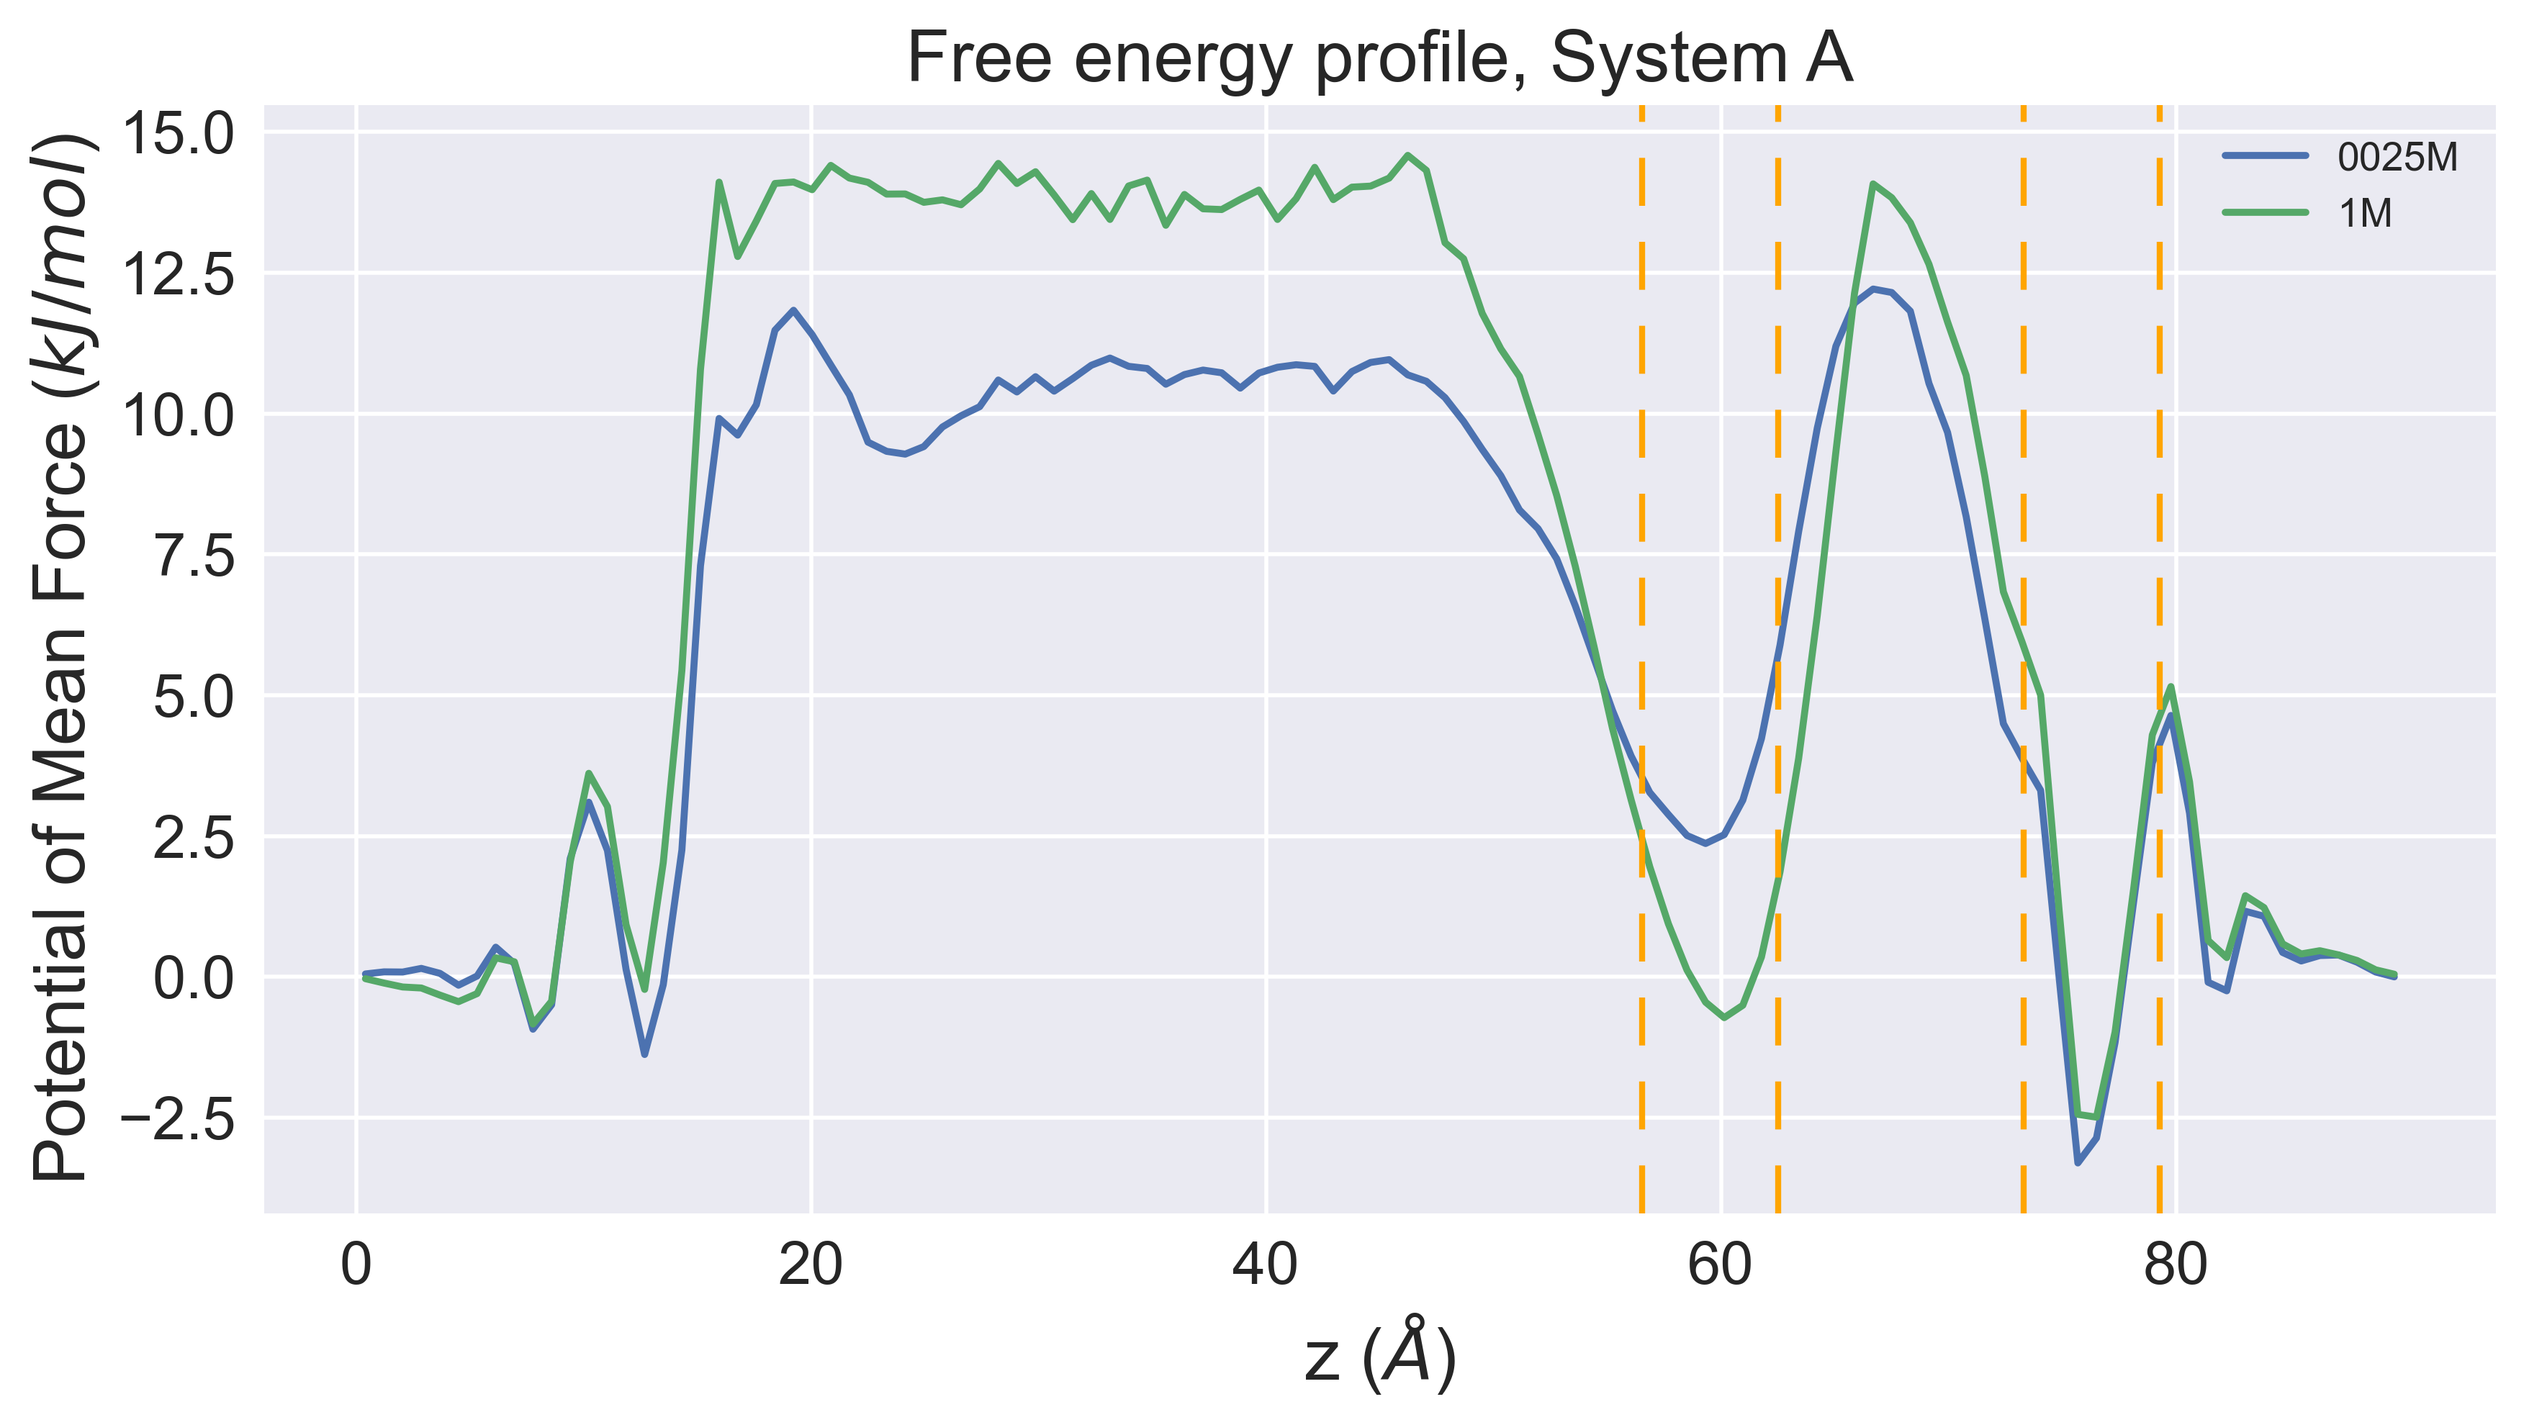
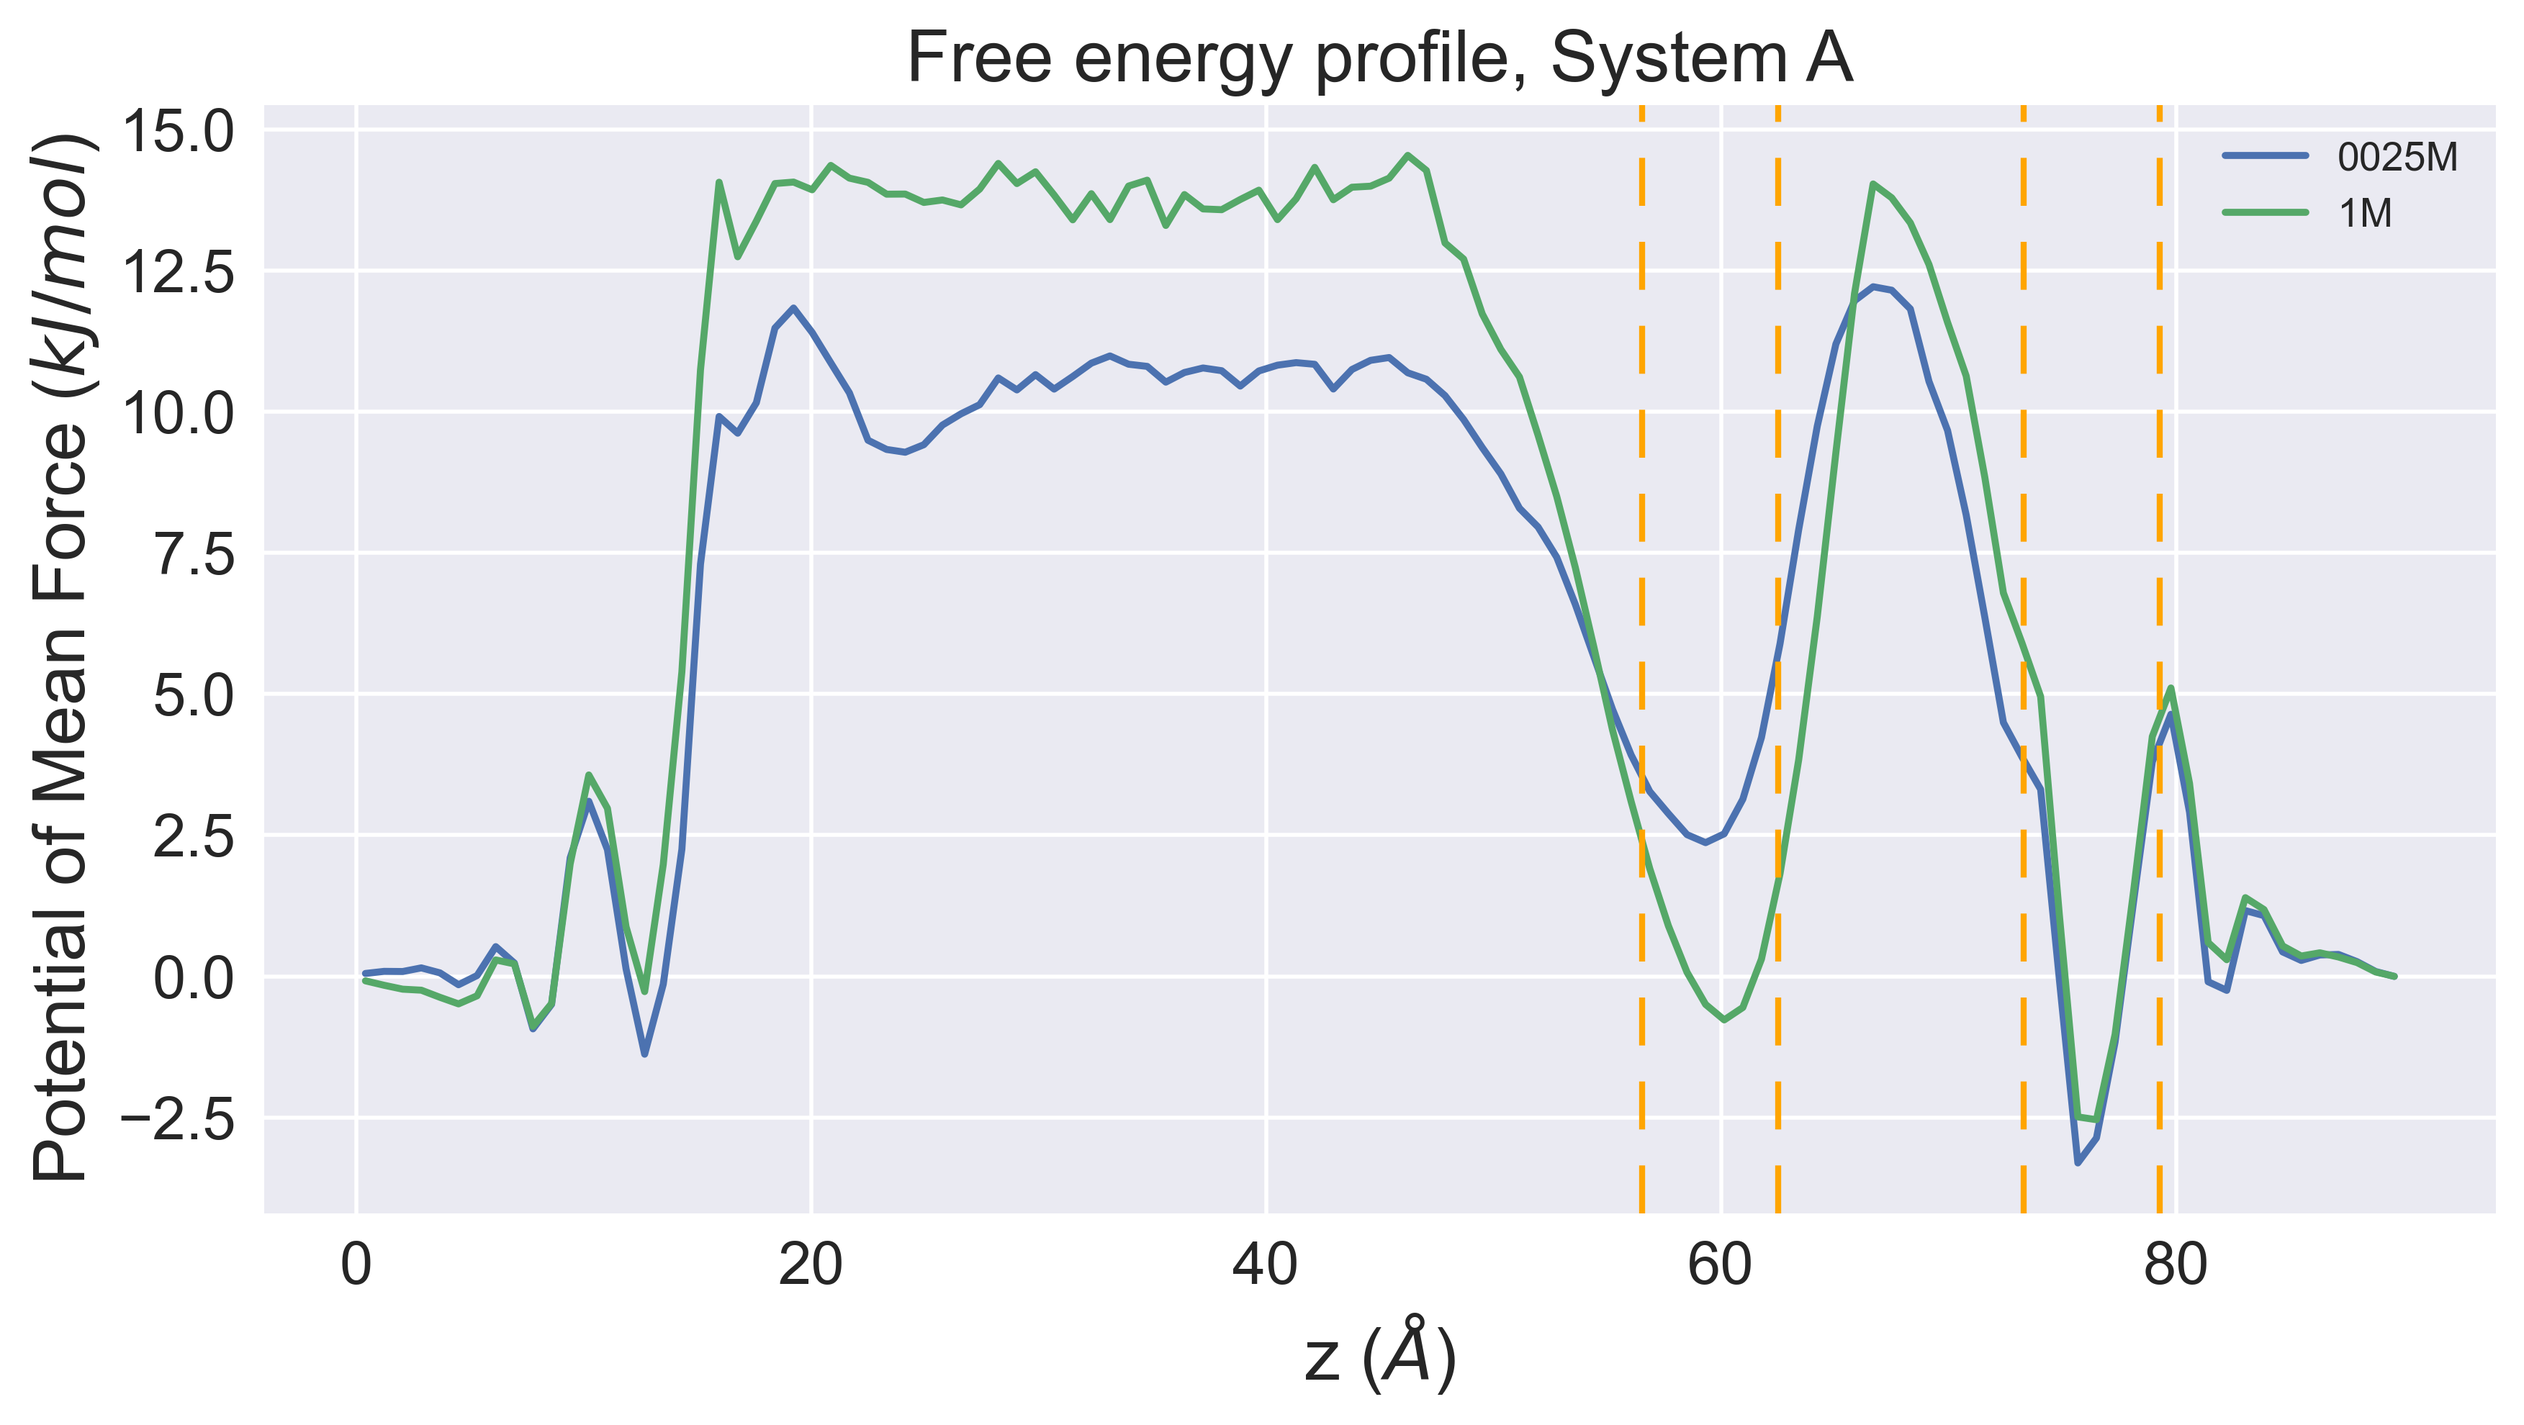
Added systems C and D and minor changes

diff --git a/MFPT.py b/MFPT.py
@@ -1,4 +1,4 @@
-import os, re, sys, pickle
+import os, re, sys
 from typing import NoReturn
 import numpy as np
 from scipy.optimize import curve_fit
@@ -33,37 +33,36 @@ NaR Mean First Passage Time Data analysis. Takes input parameters and files from
 Optional: production of graphs for Free Energy, Trajectory, Histogram of z counts and MFPT distribution.'''
 
 
-def PICKLE_data_analysis(PICKLE : str) -> NoReturn:
+def NPY_data_analysis(NPY : str) -> NoReturn:
 
-    # Getting file infos from filename: it must be of the format A_0M.pickle (one or more digits before M, any letter at the beginning)
+    # Getting file infos from filename: it must be of the format A_0M.npy (one or more digits before M, any letter at the beginning)
     # beginning numbers identify the sistem, number before 'M' identify molarity.
     pattern = re.compile( r'''
     (^             # Beginning of group: system_name.   ^ ->beginning of string
     [a-zA-Z])_            # Letter identifying the system
     (\d+)                     # At least one digit --> Molarity
-    M\.pickle$                  # rest of filename + end of line
+    M\.npy$                  # rest of filename + end of line
     ''', re.VERBOSE )       # VERBOSE -> whitespace ignored and enables comments
 
-    file_infos = pattern.fullmatch(PICKLE) 
+    file_infos = pattern.fullmatch(NPY) 
     if file_infos is None:  # Raises an error if filename does not match the pattern
-        raise FileNotValidError(PICKLE, msg = f"File name '{PICKLE}' does not match the required format 00-00-00-00_0M_NAR.pickle")
+        raise FileNotValidError(NPY, msg = f"File name '{NPY}' does not match the required format")
     system_name, molarity = file_infos.group(1), file_infos.group(2)
 
 
-    # load trajectory array from .pickle file
-    with open(os.path.join(params.pickle_directory, PICKLE), 'rb') as fp:
-        z_coordinate_NAR = pickle.load(fp)     # z_coordinate_NAR is np.ndarray
+    # Load trajectory array from .npy file
+    z_coordinate_NAR = np.load(os.path.join(params.npy_directory, NPY))     # z_coordinate_NAR is np.ndarray
 
 
     # Find z_start, z_min from z counts histogram    
     hist, bins = np.histogram(z_coordinate_NAR, bins = params.n_bins)
     dz = bins[1]-bins[0] # Angstrom
-    z_start = ( np.argmax( hist[ int(70/dz) : ] )  + int(70/dz) )* dz     # finds where the max of counts is for z>70
+    z_start = ( np.argmax( hist[ int(70/dz) :  int(80/dz)] )  + int(70/dz) )* dz  # finds where the max of counts is for 70<z<80
     z_end = ( np.argmax( hist[ int(40/dz) : int(70/dz) ] ) + int(40/dz) )* dz  # finds where the max of counts is for 40<z<70
     
     #Plot trajectory, z counts histogram and free energy
     if params.plot_graphs:
-        plotting_params['filename'] = PICKLE.removesuffix('.pickle')        
+        plotting_params['filename'] = NPY.removesuffix('.npy')        
         plotting_params['z_start'] = z_start
         plotting_params['z_end'] = z_end
         custom_plt.plot_trajectory(z_coordinate_NAR, **plotting_params)
@@ -72,19 +71,17 @@ def PICKLE_data_analysis(PICKLE : str) -> NoReturn:
 
         # Plot of comparison of free energy for the same system at different molarity
         if system_name not in sys_analysed: # Indicates if this couple of files has been already plotted in a previous cycle
-            for f in PICKLEs:   # Searches for the other file referring to the same system
+            for f in NPYs:   # Searches for the other file referring to the same system
                 if pattern.fullmatch(f) is None:
-                    # If the name of a file is wrong a warning will be printed later when it is analysed by the function PICKLE_data_analysis
+                    # If the name of a file is wrong a warning will be printed later when it is analysed by the function NPY_data_analysis
                     continue
                 if pattern.fullmatch(f).group(1) == system_name and pattern.fullmatch(f).group(2) != molarity: # Same system but different molarity
-                    with open(os.path.join(params.pickle_directory, f), 'rb') as fp:
-                        # z_coordinate_NAR_2 = pickle.load(fp)
-                        custom_plt.free_energy_comparison(z_coordinate_NAR, pickle.load(fp), \
-                            molarity1 = molarity,molarity2 = pattern.fullmatch(f).group(2), **plotting_params)
+                    custom_plt.free_energy_comparison(z_coordinate_NAR, np.load(os.path.join(params.npy_directory, f)), \
+                        molarity1 = molarity, molarity2 = pattern.fullmatch(f).group(2), **plotting_params)
                     sys_analysed.append(system_name)
                     break
             else:   # If the other file has not been found
-                print("Warning: The counterpart of '{PICKLE}' with different molarity has not been found in '{params.pickle_directory}'")
+                print("Warning: The counterpart of '{NPY}' with different molarity has not been found in '{params.npy_directory}'")
 
     #Compute total residence time and transition times from z_start to z_end
     transition_times  = list()
@@ -107,12 +104,12 @@ def PICKLE_data_analysis(PICKLE : str) -> NoReturn:
     if n_transitions == 0:      #  No transition found
         out_file.write('{:<15} {:<10} {:>15} {:>20.0f} \n'.format(system_name, molarity, 'NO TRANSITIONS', res ))
         
-        hist_figname = 'Hist_mfpt_' + PICKLE.removesuffix('.pickle') + params.add_savefig_name + '.png'
+        hist_figname = 'Hist_mfpt_' + NPY.removesuffix('.npy') + params.add_savefig_name + '.png'
         hist_figpath = os.path.join(params.savefig_directory, hist_figname)
         if os.path.exists(hist_figpath):    # Deletes previous MFPT hist (if it exists)
             os.remove(hist_figpath)
         
-        raise NoTransitionFoundError(PICKLE)
+        raise NoTransitionFoundError(NPY)
 
     transition_times = [n_frames * delta_t for n_frames in transition_times]    # conversion n of frame -> time
     res*=delta_t
@@ -132,7 +129,7 @@ def PICKLE_data_analysis(PICKLE : str) -> NoReturn:
 
     # Plot histogram of mfpt distribution
     if params.plot_graphs:
-        hist_params = {'t_bins': t_bins, 'f_bins': f_bins, 'transition_times': transition_times, 'filename': PICKLE.removesuffix('.pickle'), \
+        hist_params = {'t_bins': t_bins, 'f_bins': f_bins, 'transition_times': transition_times, 'filename': NPY.removesuffix('.npy'), \
             'savefigures': params.save_figures, 'add_savefig_name': params.add_savefig_name, 'savefig_directory': params.savefig_directory}
         custom_plt.plt_hist_mfpt(**hist_params)
 
@@ -142,7 +139,7 @@ def PICKLE_data_analysis(PICKLE : str) -> NoReturn:
         system_name, molarity, n_transitions, res, res/n_transitions, np.mean(transition_times), tau, d_tau, np.max(transition_times), np.min(transition_times) ))
 
     # Progress and time elapsed
-    print(f'{PICKLEs.index(PICKLE) + 1}/{len(PICKLEs):<25} {timer()-timer_start:<20.1f}' )   
+    print(f'{NPYs.index(NPY) + 1}/{len(NPYs):<25} {timer()-timer_start:<20.1f}' )   
 
 
 
@@ -189,18 +186,21 @@ if params.plot_graphs:
     if (not os.path.exists(params.savefig_directory)) and params.save_figures:
         os.mkdir(params.savefig_directory)
 
-# Creation list of files .pickle found in pickle_directory
-if not os.path.exists(params.pickle_directory):
-    print(f'Error: Directory {params.pickle_directory} does not exist.')
+# Creation list of files .npy found in npy_directory
+if not os.path.exists(params.npy_directory):
+    print(f'Error: Directory {params.npy_directory} does not exist.')
     sys.exit(1)
-if not os.path.isdir(params.pickle_directory):
-    print(f"Error: '{params.pickle_directory}' is not a directory.")
+if not os.path.isdir(params.npy_directory):
+    print(f"Error: '{params.npy_directory}' is not a directory.")
     sys.exit(1)
-PICKLEs = tuple([ file_ for file_ in os.listdir(params.pickle_directory) if file_.endswith('.pickle') ])
-#print(PICKLEs)
-if len(PICKLEs) == 0:
-    print(f'Error: No valid file has been found in the directory {params.pickle_directory}')
+NPYs = tuple([ file_ for file_ in os.listdir(params.npy_directory) if file_.endswith('.npy') ])
+#print(NPYs)
+if len(NPYs) == 0:
+    print(f'Error: No valid file has been found in the directory {params.npy_directory}')
     sys.exit(1)
+
+print('MFPT NaR data analysis')
+print('The following files will be analysed: \n', ', '.join(NPYs))
 
 # List of already analysed systems
 sys_analysed = []
@@ -216,10 +216,10 @@ with open(params.output_file, 'w') as out_file:
     print('{:<25} {:<20}'.format('N. of analysed files:','Time elapsed (s):'))
 
 
-    # PICKLE data analysis
-    for PICKLE in PICKLEs:        
+    # NPY data analysis
+    for NPY in NPYs:        
         try:
-            PICKLE_data_analysis(PICKLE)            
+            NPY_data_analysis(NPY)            
         except (FileNotValidError, NoTransitionFoundError) as err:
             print('Warning: ', err, ', proceeding to next file.', sep='')
             continue

diff --git a/Libraries/custom_class.py b/Libraries/custom_class.py
@@ -11,7 +11,7 @@ class Unmodifiable_Data():  # Reads the input parameters: checks their presence 
         self.__set_nbins_t('plotting params', 'nbins_t', int)
         self.__set_save_figures('plotting params', 'save_figures', bool)
         self.__set_plot_graphs('plotting params', 'plot_graphs', bool)
-        self.__set_pickle_directory('files and directories', 'pickle_directory')    # If type not specified -> str
+        self.__set_npy_directory('files and directories', 'npy_directory')    # If type not specified -> str
         self.__set_add_savefig_name('plotting params', 'add_savefig_name')
         self.__set_savefig_directory('plotting params', 'savefig_directory')
         self.__set_output_file('files and directories', 'output_file')
@@ -103,12 +103,12 @@ class Unmodifiable_Data():  # Reads the input parameters: checks their presence 
         return self.__save_figures
     save_figures = property(__get_save_figures)
 
-    def __set_pickle_directory(self, section, parameter_name):
+    def __set_npy_directory(self, section, parameter_name):
         self.check_presence(section, parameter_name)
-        self.__pickle_directory = self.cfg.get(section, parameter_name) 
-    def __get_pickle_directory(self):
-        return self.__pickle_directory
-    pickle_directory = property(__get_pickle_directory)
+        self.__npy_directory = self.cfg.get(section, parameter_name) 
+    def __get_npy_directory(self):
+        return self.__npy_directory
+    npy_directory = property(__get_npy_directory)
 
     def __set_add_savefig_name(self, section, parameter_name):
         self.check_presence(section, parameter_name)

diff --git a/npy_generator.py b/npy_generator.py
@@ -5,6 +5,7 @@ from timeit import default_timer as timer
 
 timer_start = timer()
 
+# Directory where to look for TXT files can be parsed but deafault is 'NewFiles'
 PROGNAME = os.path.basename(sys.argv[0])
 parser = ArgumentParser(prog = PROGNAME)
 parser.add_argument('-d',dest= 'dir_', default = 'NewFiles')
@@ -22,12 +23,14 @@ if len(TXTs) == 0:
     print(f'Error: No valid file has been found in the directory {dir_}')
     sys.exit(1)
 
-files_created = []
-print('Files created:')
+print('The following files are being converted to NPY: ', ', '.join(TXTs))
+print('{:<25} {:<20}'.format('N. of analysed files:','Time elapsed (s):'))
 for i,TXT in enumerate(TXTs):
     array = np.loadtxt(os.path.join(dir_,TXT))
         
     new_file = TXT.removesuffix('.txt') + '.npy'
     np.save(os.path.join(dir_, new_file), array)
-    files_created.append(new_file)
-    print(f'{i+1}/{len(TXTs)} \t {new_file} \t {timer() - timer_start:.1f}s')
+
+    print(f'{i+1}/{len(TXTs):<25} {timer()-timer_start:<20.1f}' )   
+
+print('All NPY files have been created!')

diff --git a/Libraries/custom_plot.py b/Libraries/custom_plot.py
@@ -114,7 +114,7 @@ def free_energy_comparison(coord : Sequence[float],coord2 : Sequence[float], /, 
     energy2 = [free_energy(count2, tot_frame, bin_lenght2) for count2 in counts2]
 
     plt.plot( bins[1:] - bin_lenght/2, energy - energy[-1], linestyle = '-', label = f'{molarity1}M')
-    plt.plot( bins2[1:] - bin_lenght2/2, energy2 - energy[-1], linestyle = '-', label = f'{molarity2}M')
+    plt.plot( bins2[1:] - bin_lenght2/2, energy2 - energy2[-1], linestyle = '-', label = f'{molarity2}M')
     plt.axvline(x=z_start + delta_z, color = boxes_color, dashes = dashes_imp, linewidth = boxes_linewidth)
     plt.axvline(x=z_start - delta_z, color = boxes_color, dashes = dashes_imp, linewidth = boxes_linewidth)
     plt.axvline(x=z_end + delta_z, color = boxes_color, dashes = dashes_imp, linewidth = boxes_linewidth)
